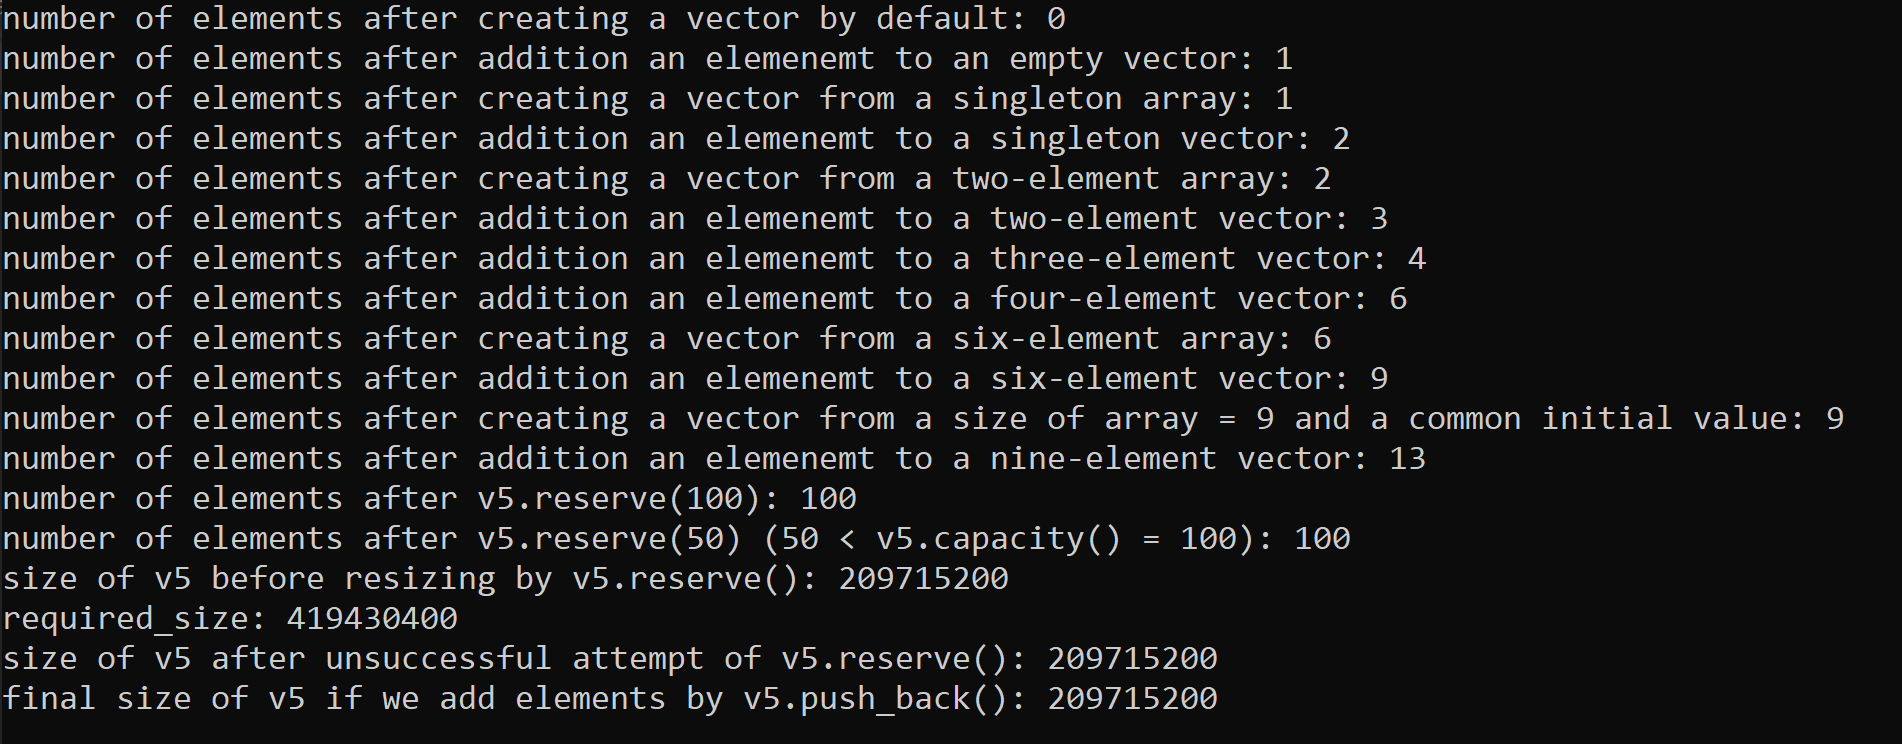
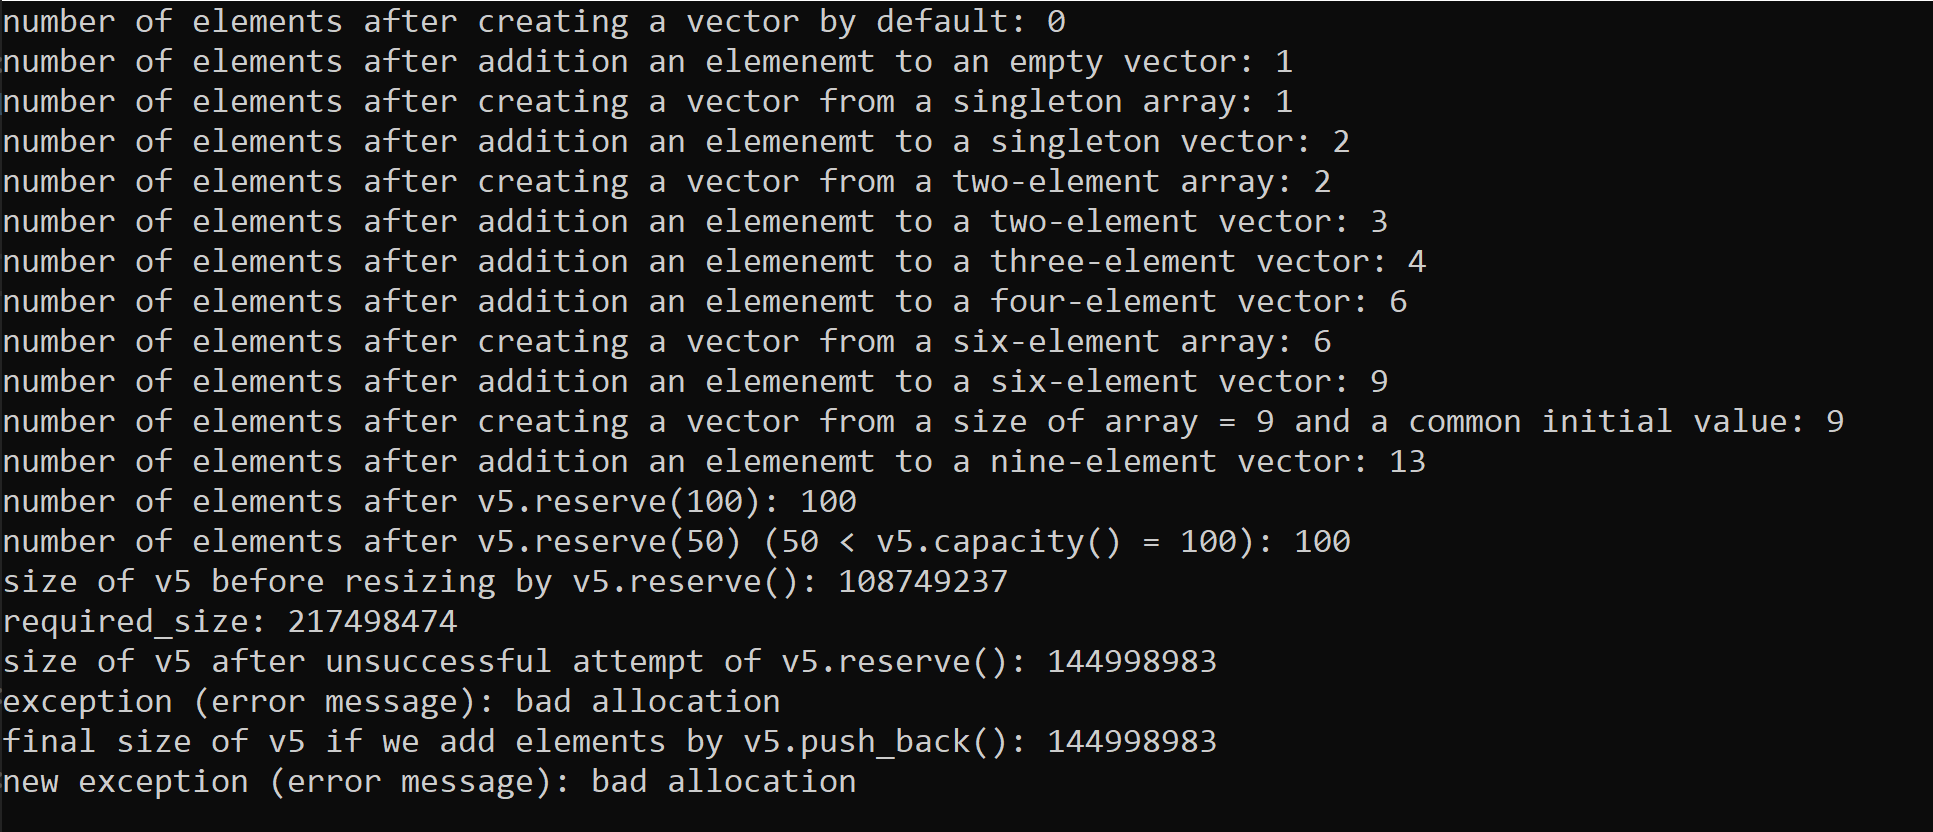
improved error handling

Changed region(s): [[0.0, 0.0, 0.9616, 0.9583], [0.6204, 0.711, 0.7135, 0.7419]]

diff --git a/HW 2 (14)/2.1.cpp b/HW 2 (14)/2.1.cpp
@@ -58,14 +58,19 @@ int main()
 
 	auto required_size = v5.capacity();
 
+	std::string error = "";
 	while(required_size == v5.capacity())
 	{
-		required_size *= 2;
+		(required_size *= 3) /= 2;
 		try
 		{
 			v5.reserve(required_size);
 		}
-		catch(...){}
+		catch (const std::exception& exception)
+		{
+			error = exception.what();
+		}
+		catch (...) { std::abort(); }
 	}
 
 	std::cout << "size of v5 before resizing by v5.reserve(): "
@@ -74,6 +79,7 @@ int main()
 		<< required_size << '\n';
 	std::cout << "size of v5 after unsuccessful attempt of v5.reserve(): " 
 		<< v5.capacity() << '\n'; // size of v5 wasn't changed
+	std::cout << "exception (error message): " << error << '\n';
 
 	while (true)
 	{
@@ -81,10 +87,16 @@ int main()
 		{
 			v5.push_back(0);
 		}
-		catch (...) { break; }
+		catch (const std::exception& exception)
+		{
+			error = exception.what();
+			break;
+		}
+		catch (...) { std::abort(); }
 	}
 	
 	std::cout << "final size of v5 if we add elements by v5.push_back(): " << v5.capacity() << '\n'; // or x1.5, or nothing
+	std::cout << "new exception (error message): " << error << '\n';
 
 	return 0;
 }
